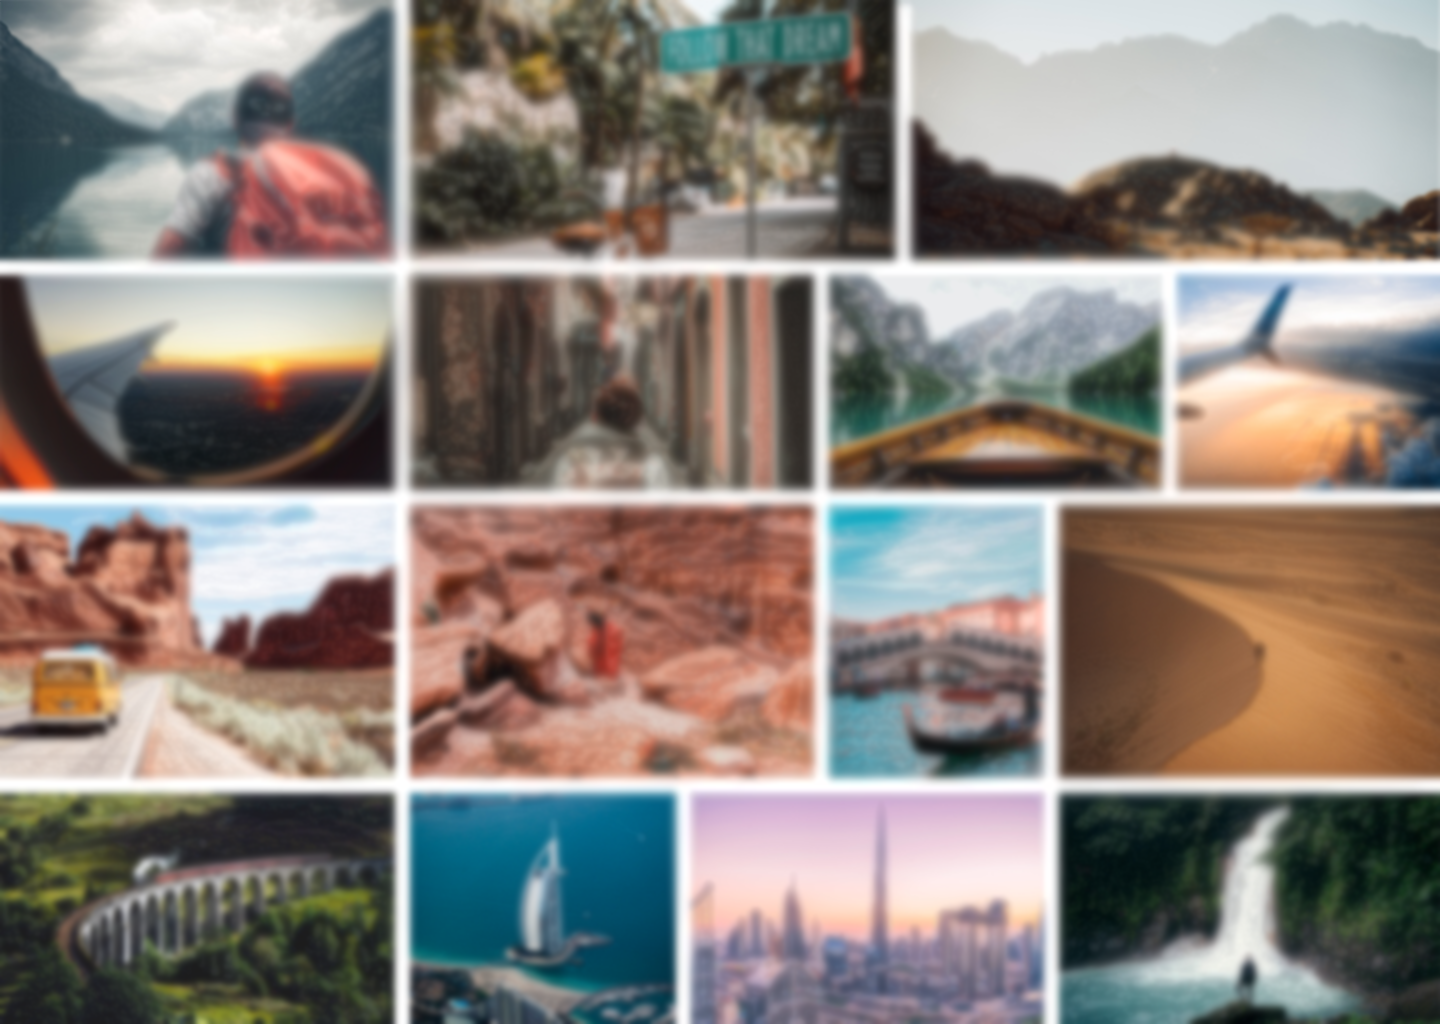
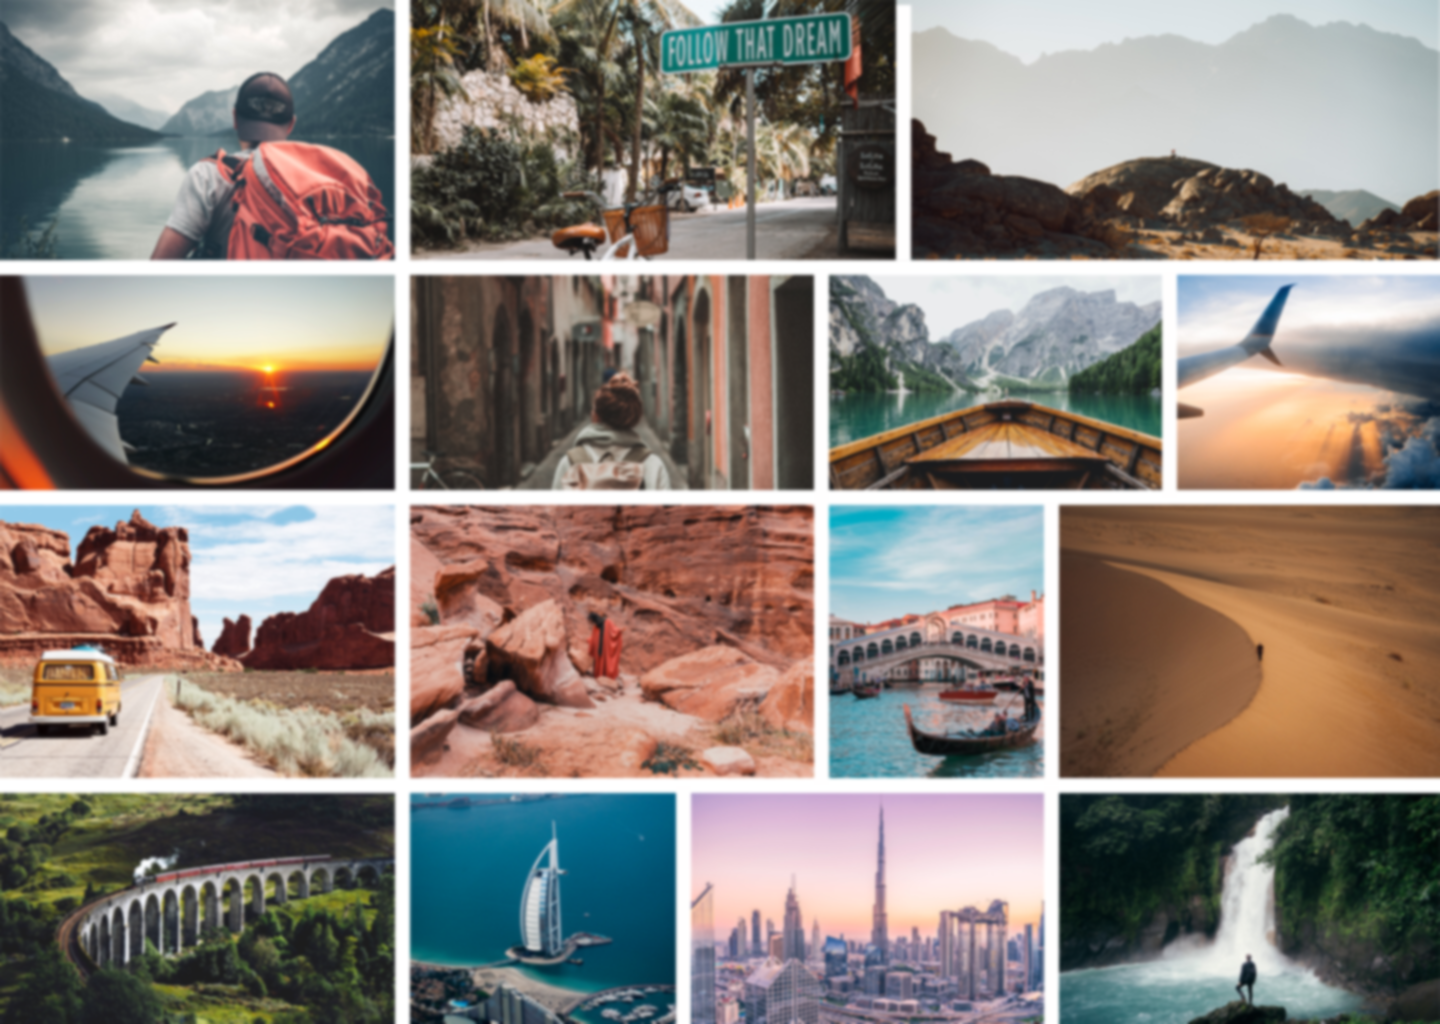
mainfooterheader border shadow
lagt till skuggor och små borders så det ser mer fylligt ut och inte har lika hårda kanter

diff --git a/css/stylesheet.css b/css/stylesheet.css
@@ -1,6 +1,6 @@
 body {
     margin: 0;
-    background-image: url(../img/bilder/normalhomebackground.png);
+    background-image: url(../img/bilder/orangehomebackgroundblur.png);
     background-size: cover;
 }
 
@@ -36,6 +36,8 @@ header {
     display: flex;
     justify-content: space-around;
     align-items: center;
+    box-shadow: 0px 10px 100px;
+    border-bottom: 5px solid #ffbe57;
 }
 
 main {
@@ -50,6 +52,9 @@ footer {
     grid-area: footer;
     background-image: url(../img/bilder/footerimg.png);
     background-size: cover;
+    box-shadow: 0px -10px 100px;
+    border-width: 5px;
+    border-top: 5px solid #ffbe57;
 }
 
 aside {
@@ -95,9 +100,10 @@ a {
     border-style: solid;
     border-width: 1px;
     border-color: rgb(165, 165, 165);
+    box-shadow: 0px 0px 100px 12px;
 }
 
 .searchbartext {
-    color: rgb(55, 55, 55);
+    color: rgb(89, 89, 89);
 }
 
